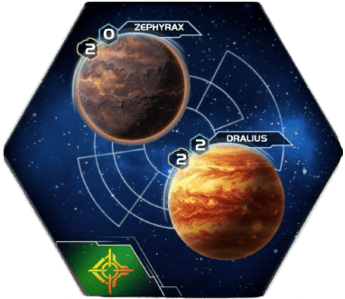
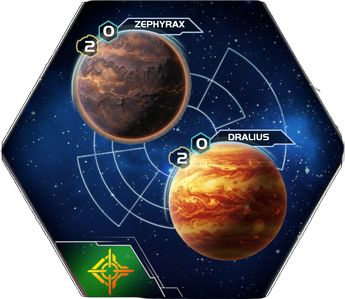
WTFV balance changes (#6170)
* Apply wftv balance changes and automate Lunarium's chained secret scoring

Zephyrion: starting fleet loses 1 cruiser, Dralius drops to 2/0, and the
hero/breakthrough triggers no longer require an actual combat round (the
hero fires on any bounty-marked kill, the breakthrough fires on destroying
a player's last ship in/adjacent to their home system), since both could
previously whiff on a space-cannon-only kill.

Vyserix: swap 1 destroyer for a carrier in the starting fleet.

Lunarium: rewrite the hero to a chained "score one, may score another"
window instead of a blanket "any number", and gate the forced status-phase
scoring queue so it won't auto-advance past Lunarium mid-chain until they
confirm they're done (new Done Scoring Secrets button), fixed to key off
the hero's actual isActive() state rather than just being unlocked.

Tyris: tyriscommander now offers tyris_mech as an optional franken draft
swap, since Reverb can't be produced and is otherwise unobtainable.

New BA8 (Dralius/Zephyrax) tile image reflecting Dralius's new stats.

diff --git a/src/main/java/ti4/discord/interactions/buttons/handlers/faction/homebrew/wftv/lunarium/LunariumLeaderHandler.java b/src/main/java/ti4/discord/interactions/buttons/handlers/faction/homebrew/wftv/lunarium/LunariumLeaderHandler.java
@@ -1,9 +1,16 @@
 package ti4.discord.interactions.buttons.handlers.faction.homebrew.wftv.lunarium;
 
+import java.util.List;
 import lombok.experimental.UtilityClass;
 import net.dv8tion.jda.api.events.interaction.GenericInteractionCreateEvent;
+import net.dv8tion.jda.api.events.interaction.component.ButtonInteractionEvent;
+import ti4.discord.interactions.buttons.Buttons;
+import ti4.discord.interactions.routing.ButtonHandler;
 import ti4.game.Game;
+import ti4.game.Leader;
 import ti4.game.Player;
+import ti4.helpers.ButtonHelper;
+import ti4.helpers.Helper;
 import ti4.message.MessageHelper;
 import ti4.service.emoji.FactionEmojis;
 import ti4.service.objectives.DrawSecretService;
@@ -17,5 +24,31 @@ public class LunariumLeaderHandler {
                 player.getRepresentation() + " draws 1 secret objective due to " + FactionEmojis.lunarium
                         + " **Lunarium Commander**.");
         DrawSecretService.drawSO(event, game, player);
+    }
+
+    public static boolean isHeroActive(Player player) {
+        return player.getLeader("lunariumhero").map(Leader::isActive).orElse(false);
+    }
+
+    public static void offerDoneScoringSecretsButton(Game game, Player player) {
+        MessageHelper.sendMessageToChannelWithButtons(
+                player.getCorrectChannel(),
+                player.getRepresentation() + ", you may score another secret objective this status phase via "
+                        + FactionEmojis.lunarium
+                        + " **Anima Scrutator**. Press the button below once you are done scoring secrets so the"
+                        + " game can move on to the next player.",
+                List.of(Buttons.green(
+                        player.factionButtonChecker() + "lunariumHeroDoneScoring", "Done Scoring Secrets")));
+    }
+
+    @ButtonHandler("lunariumHeroDoneScoring")
+    public static void lunariumHeroDoneScoring(ButtonInteractionEvent event, Game game, Player player) {
+        String key3 = "potentialScoreSOBlockers";
+        String key3b = "potentialScorePOBlockers";
+        game.setStoredValue(key3, game.getStoredValue(key3).replace(player.getFaction() + "*", ""));
+        if (!game.getStoredValue(key3b).contains(player.getFaction() + "*")) {
+            Helper.resolvePOScoringQueue(game, event);
+        }
+        ButtonHelper.deleteMessage(event);
     }
 }

diff --git a/src/main/java/ti4/helpers/StatusHelper.java b/src/main/java/ti4/helpers/StatusHelper.java
@@ -19,6 +19,7 @@ import ti4.discord.interactions.buttons.handlers.faction.homebrew.theodisi.reven
 import ti4.discord.interactions.buttons.handlers.faction.homebrew.theodisi.verydith.VerydithPromissoryHandler;
 import ti4.discord.interactions.buttons.handlers.faction.homebrew.theodisi.veylor.VeylorAbilitiesHandler;
 import ti4.discord.interactions.buttons.handlers.faction.homebrew.wftv.kalora.KaloraAbilityHandler;
+import ti4.discord.interactions.buttons.handlers.faction.homebrew.wftv.lunarium.LunariumLeaderHandler;
 import ti4.discord.interactions.buttons.handlers.unit.monuments.MonumentsPoKButtonHandler;
 import ti4.game.Game;
 import ti4.game.Leader;
@@ -1096,9 +1097,14 @@ public final class StatusHelper {
                             game.setStoredValue(key2, game.getStoredValue(key2).replace(player.getFaction() + "*", ""));
                         }
                         if (game.getStoredValue(key3).contains(player.getFaction() + "*")) {
-                            game.setStoredValue(key3, game.getStoredValue(key3).replace(player.getFaction() + "*", ""));
-                            if (!game.getStoredValue(key3b).contains(player.getFaction() + "*")) {
-                                Helper.resolvePOScoringQueue(game, event);
+                            if (LunariumLeaderHandler.isHeroActive(player)) {
+                                LunariumLeaderHandler.offerDoneScoringSecretsButton(game, player);
+                            } else {
+                                game.setStoredValue(
+                                        key3, game.getStoredValue(key3).replace(player.getFaction() + "*", ""));
+                                if (!game.getStoredValue(key3b).contains(player.getFaction() + "*")) {
+                                    Helper.resolvePOScoringQueue(game, event);
+                                }
                             }
                         }
 

diff --git a/src/main/java/ti4/helpers/Helper.java b/src/main/java/ti4/helpers/Helper.java
@@ -71,6 +71,7 @@ import ti4.discord.interactions.buttons.handlers.faction.homebrew.theodisi.xythe
 import ti4.discord.interactions.buttons.handlers.faction.homebrew.wftv.arvaxi.ArvaxiBreakthroughHandler;
 import ti4.discord.interactions.buttons.handlers.faction.homebrew.wftv.lunarium.LunariumAbilityHandler;
 import ti4.discord.interactions.buttons.handlers.faction.homebrew.wftv.lunarium.LunariumBreakthroughHandler;
+import ti4.discord.interactions.buttons.handlers.faction.homebrew.wftv.lunarium.LunariumLeaderHandler;
 import ti4.discord.interactions.buttons.handlers.planet.IxthLegendaryButtonHandler;
 import ti4.discord.interactions.buttons.handlers.planet.TheodisiLegendaryButtonHandler;
 import ti4.discord.interactions.buttons.handlers.unit.monuments.MonumentsBRButtonHandler;
@@ -448,7 +449,11 @@ public final class Helper {
                     int soIndex = Integer.parseInt(game.getStoredValue(player.getFaction() + "queuedSOScore"));
                     SecretObjectiveHelper.scoreSO(event, game, player, soIndex, player.getCorrectChannel());
                     game.setStoredValue(key2b, game.getStoredValue(key2b).replace(player.getFaction() + "*", ""));
-                    game.setStoredValue(key3b, game.getStoredValue(key3b).replace(player.getFaction() + "*", ""));
+                    if (LunariumLeaderHandler.isHeroActive(player)) {
+                        LunariumLeaderHandler.offerDoneScoringSecretsButton(game, player);
+                    } else {
+                        game.setStoredValue(key3b, game.getStoredValue(key3b).replace(player.getFaction() + "*", ""));
+                    }
                 }
                 if (game.getHighestScore() + 1 > game.getVp()) {
                     return;

diff --git a/src/main/java/ti4/discord/interactions/buttons/handlers/faction/homebrew/wftv/zephyrion/ZephyrionBreakthroughHandler.java b/src/main/java/ti4/discord/interactions/buttons/handlers/faction/homebrew/wftv/zephyrion/ZephyrionBreakthroughHandler.java
@@ -35,7 +35,9 @@ public class ZephyrionBreakthroughHandler {
         MessageHelper.sendMessageToChannelWithButtons(
                 player.getCardsInfoThread(),
                 msg
-                        + ", a reminder that if you win this space combat, you may resolve _Subdue Chancellor_ to draw an unused agent.",
+                        + ", a reminder that if you destroy the last of "
+                        + otherPlayer.getRepresentationNoPing()
+                        + "'s ships here, you may resolve _Subdue Chancellor_ to draw an unused agent.",
                 buttons);
     }
 
